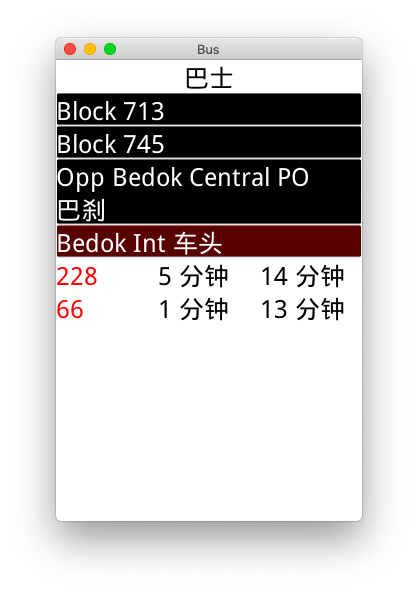
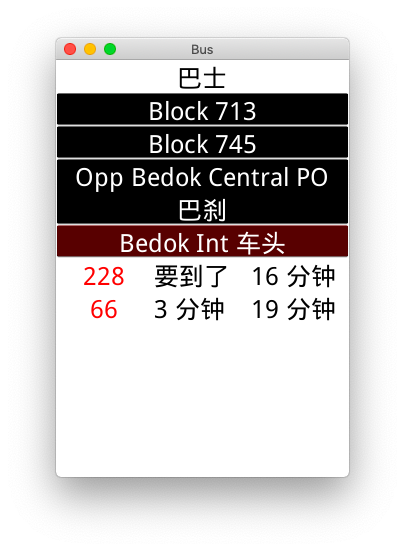
Fixed alignment issues

Changed region(s): [[0.1185, 0.0617, 0.8889, 0.8947]]

diff --git a/bus_api.py b/bus_api.py
@@ -19,7 +19,8 @@ def get_time_difference (time):
     time = time.split(":")
     time = [int(x) for x in time]
 
-    datetime_object = datetime(date[0], date[1], date[2], time[0], time[1], time[2])
+    datetime_object = datetime(date[0], date[1], date[2],
+                               time[0], time[1], time[2])
 
     # print(datetime_object)
     # print(datetime.now())
@@ -42,7 +43,9 @@ def determine_arr (time_difference):
 
 def get_bus_timings (bus_stop_code, service_no=[]):
     # Make API call
-    bus_arrival_response = requests.get("http://datamall2.mytransport.sg/ltaodataservice/BusArrivalv2", headers=headers, params={"BusStopCode": bus_stop_code}).json()
+    bus_arrival_response = requests.get("http://datamall2.mytransport.sg/ltaodataservice/BusArrivalv2",
+                                        headers=headers,
+                                        params={"BusStopCode": bus_stop_code}).json()
 
     # Get services
     bus_arrival_response = bus_arrival_response["Services"]

diff --git a/main.py b/main.py
@@ -56,7 +56,8 @@ class BusApp (App):
         for location in self.locations:
             location_btn = WrappedButton(size_hint=(1,None),
                                          background_color=(0,0,0,1),
-                                         font_name=FONT)
+                                         font_name=FONT,
+                                         halign="center")
             location_btn.text = location
             location_btn.font_size = 25
             location_btn.bind(on_release=self.get_timings)
@@ -97,6 +98,7 @@ class BusApp (App):
                 if index == 0:
                     # Colorize service code
                     label.color = [1,0,0,1]
+                    label.halign = "center"
                 self.time_layout.add_widget(label)
 
         self.scroll_view.size = (Window.width, Window.height)
